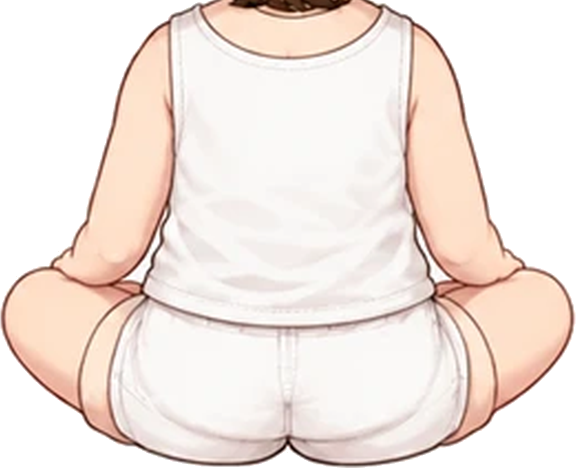
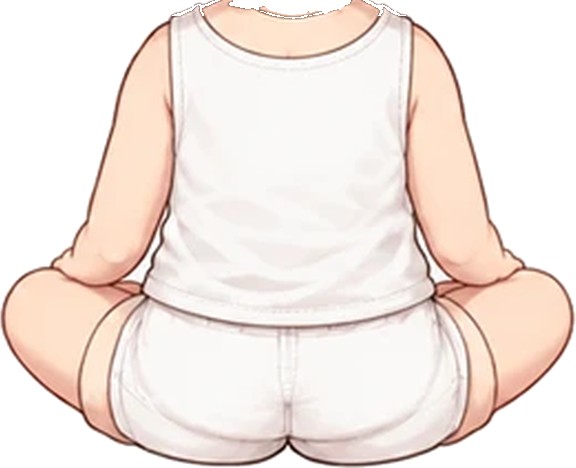
바닥 앉기 옆모습 목 뒤 머리 쐐기 없애기
- 앉은 기준 몸 그림에 원화 여자아이의 긴 단발 끝이 턱 아래로 남아, 단발이 아닌 머리에서 목 뒤로 튀어나옴
- seated-layers.py hanging_hair: 잘린 줄에 이어진 머리 덩어리와 둘레 선, 목 띠의 피부 아닌 픽셀 제외(목둘레 선은 유지)
- 앉은 기준 몸 6장 다시 생성, 기본 옷 층은 그대로

Claude-Session: https://claude.ai/code/session_01PfbS32vU7cWbFchcW8KZRQ

Changed region(s): [[0.3125, 0.0, 0.6875, 0.0598]]

diff --git a/퀴즈나라/tools/seated-layers.py b/퀴즈나라/tools/seated-layers.py
@@ -433,6 +433,44 @@ def load_json():
     return json.load(open(p)) if os.path.exists(p) else {}
 
 
+def hanging_hair(img, mask, cut_row, min_px=300):
+    """Hair-brown pieces of `mask` that touch its cut row (hair continuing from above the chin)."""
+    r, g, b = (img[..., i].astype(int) for i in range(3))
+    raw = mask & (r > g) & (g > b) & (r - b > 25) & (img.max(2) < 170)
+    hair = raw
+    # opened: the neckline's brown outline is a thin line joined to the hair; it stays
+    hair = CB.grow(CB.shrink(CB.shrink(CB.shrink(hair))), 3) & hair
+    lab_, n = ndlabel(hair)
+    out = np.zeros(mask.shape, bool)
+    for i in range(1, n + 1):
+        piece = lab_ == i
+        if piece.sum() >= min_px and piece[max(0, cut_row):cut_row + 3].any():
+            out |= piece
+    # and the hair's own outline round what was taken (hair-brown or dark, within 6 px)
+    band = np.zeros(mask.shape, bool); band[:max(0, cut_row + 16)] = True
+    light_skin = (r > 150) & (g > 100) & (r > g) & (g >= b)  # skin_of also takes dark hair shading as skin
+    # and the hair's own outline round what was taken (hair-brown or dark within 6 px), and anything but
+    # skin in the top 16 rows (the neck under the runtime head; hair specks and a pale anti-aliased edge
+    # stayed there as dots)
+    return (CB.grow(out, 2) | (CB.grow(out, 6) & (raw | (img.max(2) < 110))) | (band & ~light_skin)) & mask
+
+
+def ndlabel(m):
+    """4-connected labels without scipy."""
+    lab_ = np.zeros(m.shape, np.int32); n = 0
+    H, W = m.shape
+    for y0, x0 in zip(*np.nonzero(m)):
+        if lab_[y0, x0]:
+            continue
+        n += 1; stack = [(y0, x0)]; lab_[y0, x0] = n
+        while stack:
+            y, x = stack.pop()
+            for yy, xx in ((y + 1, x), (y - 1, x), (y, x + 1), (y, x - 1)):
+                if 0 <= yy < H and 0 <= xx < W and m[yy, xx] and not lab_[yy, xx]:
+                    lab_[yy, xx] = n; stack.append((yy, xx))
+    return lab_, n
+
+
 def build_base():
     data = {}
     for sex in 'mf':
@@ -446,6 +484,10 @@ def build_base():
             # neck under the runtime head)
             top = C['cut'] - box[1]; rows = np.arange(Bfull.shape[0])[:, None]
             base_mask = Bfg & (rows >= top - 12)
+            # not the reference's own hair hanging below the chin (the girl's bob behind the neck in
+            # the side view): the runtime head brings its own, and other hair styles showed this one as
+            # a dark wedge behind the neck (2026-10-15). Hair-brown pieces joined to the cut row only.
+            base_mask &= ~hanging_hair(Bfull, base_mask, top - 12)
             entry = {'seat': C['seat'], 'unit': C['k'], 'frame': U(*box[:2]) + [round((box[2] - box[0]) * C['k'], 4), round((box[3] - box[1]) * C['k'], 4)], 'layers': {}}
             entry['layers']['base'] = save(f'{sex}-{view}-base', base_mask, Bfull, skin_of(Bfull), box, U)
             sk = skin_of(A)

diff --git a/퀴즈나라/아바타-제작기준.md b/퀴즈나라/아바타-제작기준.md
@@ -166,6 +166,7 @@ C는 앉기/일어서기, 공간 출입은 출입 지점 접촉으로 자동 이
 | 여자 한복 앞모습에 신발 두 켤레, 몇 벌의 신발 둘레 흐린 겹선 | ChatGPT가 하체를 짧게 그려 원화 속 운동화가 기본 위치에서 최대 59px 벗어남. 원화 운동화가 옷 층에 섞임 | 신발이 아닌 옷은 기본 신발 자리(+4px)를 갖지 않음. 원화 운동화를 한 짝씩 찾아(`sheet_shoes`) 옷 층에서 뺌. 40px 넘게 벗어난 원화(하의·한벌옷)는 검사 실패 → 다시 요청(코드로 맞추지 않음) |
 | 한벌옷 8벌이 게임에서 앉은 그림으로 안 나옴(하의 칸이 없다고 포기) | 원화 비교 검사가 런타임과 다른 순서(한벌옷 밑에 기본 반바지)로 따로 겹쳐서 통과 | 런타임 순서를 고치고 검사도 같은 순서로 맞춤. `verify-seated-runtime.cjs`가 모든 상품을 실제 게임 코드로 돌려 잡았다. 겹치는 순서를 바꾸면 두 곳(`seatLayers`, `compose`)을 함께 고친다 |
 | 검사가 신발 층의 작은 크기 때문에 기본 옷 결함을 신발 구멍으로 셈, 셔츠 차이를 하의 탓으로 셈 | 비율 기준을 층 전체·그림 전체로 잡음 | 구멍은 그 옷 12px 안만, '맞춤'은 그 옷과 기준 몸이 보이는 자리만(2px 어긋남 허용), 원화 전체 자세 차이는 경고만 |
+| 여자 바닥 앉기 옆모습에서 단발이 아닌 머리(단발 짧은·똥머리·가르마·뾰족·땋은머리)의 목 뒤에 어두운 쐐기 (2026-10-15 모자 동작 검사 중 발견) | 앉은 기준 몸(`*-base.png`)은 원화의 턱 아래를 전부 가져오는데, 원화 여자아이의 긴 단발이 턱 아래로 늘어져 같이 들어왔다. 기본 머리(단발)에서는 머리에 가려 안 보였고, 검사는 기본 머리로만 앉은 그림을 봤다 | `seated-layers.py build_base`의 `hanging_hair`: 잘린 줄에 이어진 머리색 덩어리(열기 연산으로 목둘레 선은 남김)와 그 둘레 선, 맨 위 16줄의 피부 아닌 픽셀을 뺀다. 확인은 24머리 × 바닥 앉기 옆모습 비교판 |
 
 규칙:
 - 원화 묶음은 `python3 tools/seated-import.py 압축파일`로 받는다. 실패한 번호는 이유와 다시 요청할 문장이 나온다. 저장된 것만 다음 단계로 간다.
